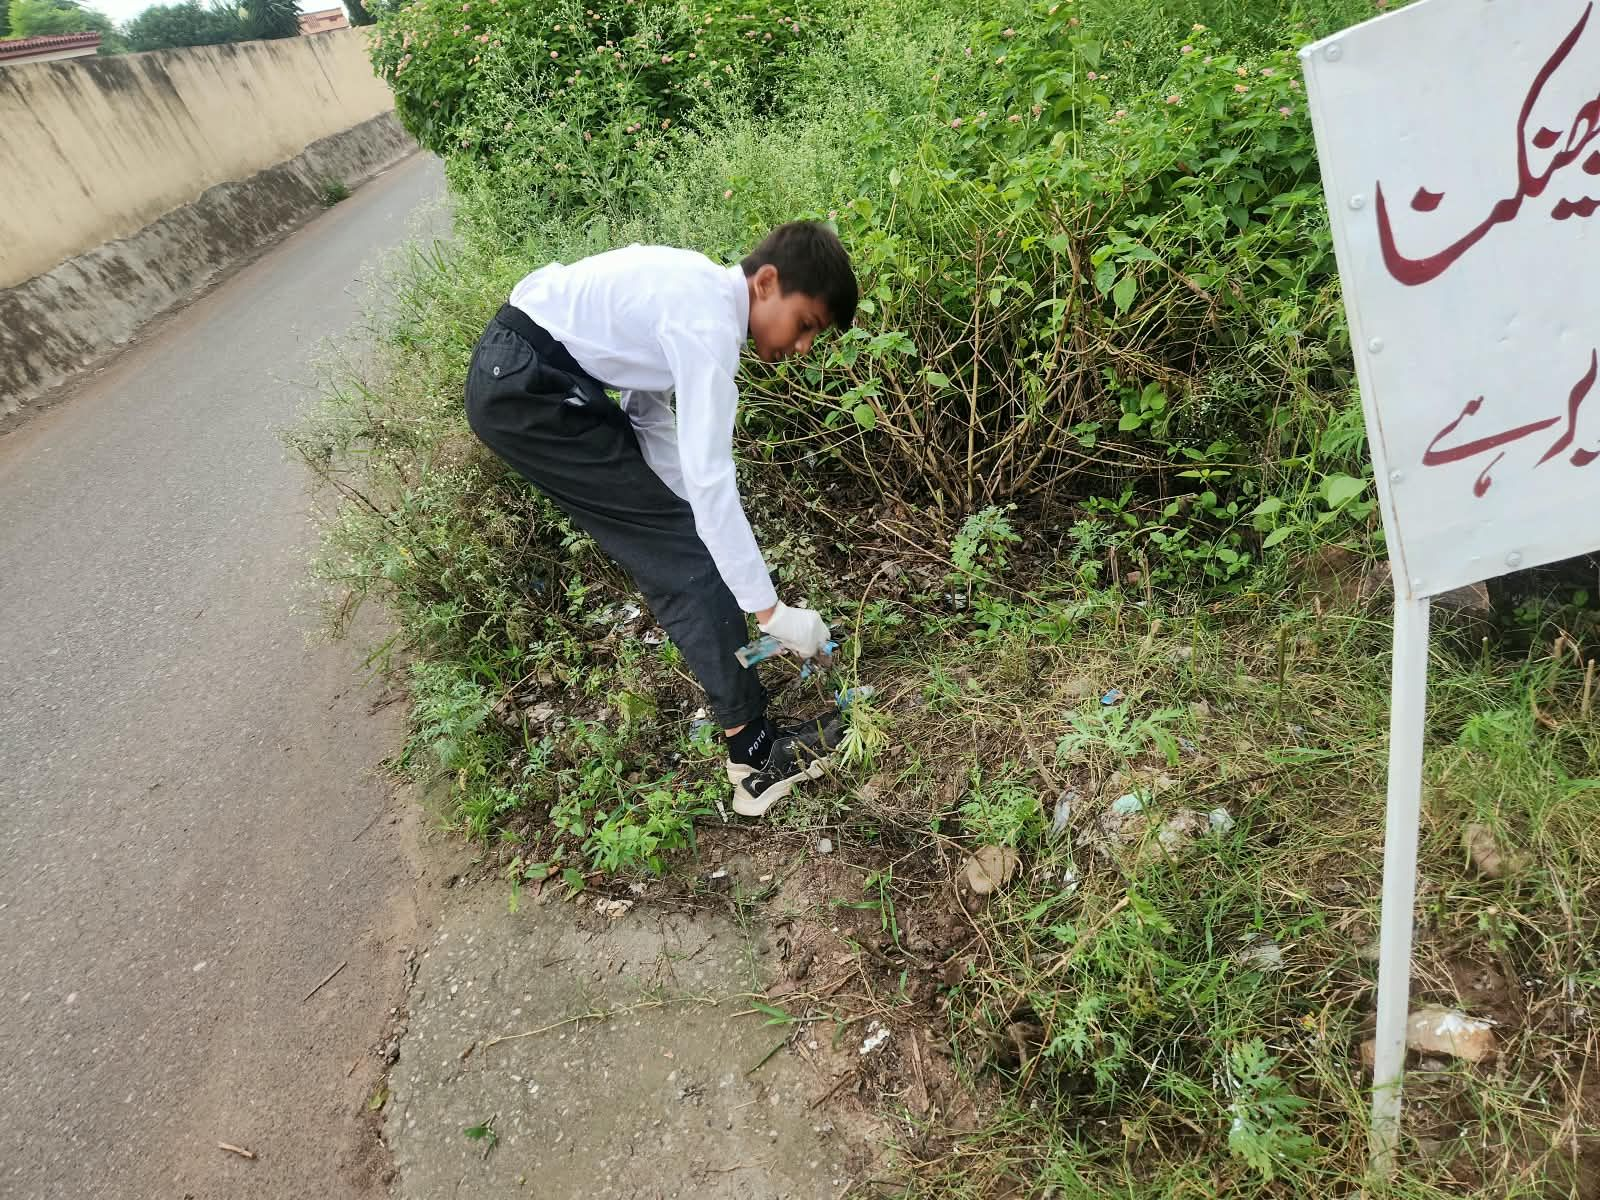
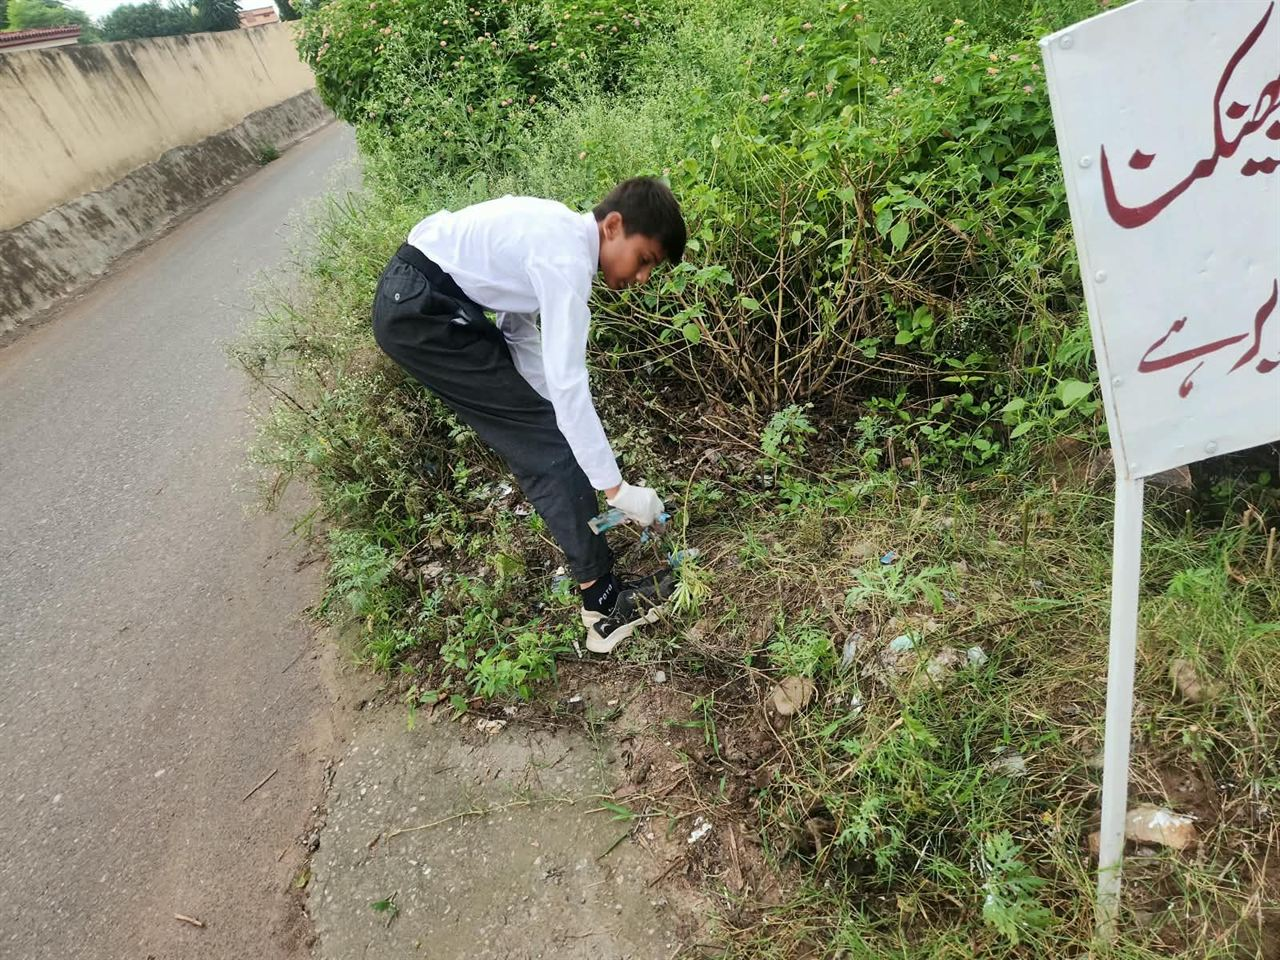
audit fixes: OG tags, contrast, fonts, reduced motion, lightbox focus, map link, strip a11y

diff --git a/index.html b/index.html
@@ -5,11 +5,19 @@
 <meta name="viewport" content="width=device-width, initial-scale=1">
 <title>Hope Valley Trust | Hope Valley School, Islamabad</title>
 <meta name="description" content="Hope Valley School, Islamabad — run by Hope Valley Trust since 2016. Quality education for children of Dhoke Malla Malot and nearby communities.">
+<meta property="og:type" content="website">
+<meta property="og:url" content="https://hopevalleytrust.com/">
+<meta property="og:title" content="Hope Valley Trust | Hope Valley School, Islamabad">
+<meta property="og:description" content="Hope Valley School, Islamabad — run by Hope Valley Trust since 2016. Quality education for children of Dhoke Malla Malot and nearby communities.">
+<meta property="og:image" content="https://hopevalleytrust.com/images/hero/hero-1.jpg">
+<meta property="og:image:width" content="1280">
+<meta property="og:image:height" content="963">
+<meta name="twitter:card" content="summary_large_image">
 <link rel="icon" href="images/logo.jpg">
 <link rel="preconnect" href="https://fonts.googleapis.com">
 <link rel="preconnect" href="https://fonts.gstatic.com" crossorigin>
-<link href="https://fonts.googleapis.com/css2?family=Dancing+Script:wght@600;700&family=Fraunces:opsz,wght@9..144,500;9..144,600&family=Nunito+Sans:wght@400;600&display=swap" rel="stylesheet">
-<link rel="stylesheet" href="style.css?v=4">
+<link href="https://fonts.googleapis.com/css2?family=Dancing+Script:wght@600;700&family=Fraunces:ital,opsz,wght@0,9..144,500;0,9..144,600;1,9..144,600&family=Nunito+Sans:wght@400;600;700&display=swap" rel="stylesheet">
+<link rel="stylesheet" href="style.css?v=5">
 </head>
 <body>
 
@@ -334,7 +342,7 @@
 
       <div class="contact-row">
         <div class="contact-cards">
-          <a class="contact-card reveal-right" href="https://www.google.com/maps/search/?api=1&amp;query=Haji+Chowk+Dhoke+Malla+Malot+Islamabad" target="_blank" rel="noopener">
+          <a class="contact-card reveal-right" data-map target="_blank" rel="noopener">
             <i><svg width="20" height="20" viewBox="0 0 24 24" fill="none" stroke="currentColor" stroke-width="2" stroke-linecap="round" stroke-linejoin="round"><path d="M20 10c0 4.993-5.539 10.193-7.399 11.799a1 1 0 0 1-1.202 0C9.539 20.193 4 14.993 4 10a8 8 0 0 1 16 0"/><circle cx="12" cy="10" r="3"/></svg></i>
             <span class="c-label">School Address</span>
             <span class="c-value">Hope Valley School, Dhoke Malla Malot, Near Haji Chowk, Islamabad</span>
@@ -394,7 +402,7 @@
       <h3>Contact</h3>
       <a href="tel:+923354988088"><svg width="16" height="16" viewBox="0 0 24 24" fill="none" stroke="currentColor" stroke-width="2" stroke-linecap="round" stroke-linejoin="round"><path d="M13.832 16.568a1 1 0 0 0 1.213-.303l.355-.465A2 2 0 0 1 17 15h3a2 2 0 0 1 2 2v3a2 2 0 0 1-2 2A18 18 0 0 1 2 4a2 2 0 0 1 2-2h3a2 2 0 0 1 2 2v3a2 2 0 0 1-.8 1.6l-.468.351a1 1 0 0 0-.292 1.233 14 14 0 0 0 6.392 6.384"/></svg>0335-4988088</a>
       <a href="mailto:hopevalley18@gmail.com"><svg width="16" height="16" viewBox="0 0 24 24" fill="none" stroke="currentColor" stroke-width="2" stroke-linecap="round" stroke-linejoin="round"><rect width="20" height="16" x="2" y="4" rx="2"/><path d="m22 7-8.97 5.7a1.94 1.94 0 0 1-2.06 0L2 7"/></svg>hopevalley18@gmail.com</a>
-      <a id="foot-address" target="_blank" rel="noopener"><svg width="16" height="16" viewBox="0 0 24 24" fill="none" stroke="currentColor" stroke-width="2" stroke-linecap="round" stroke-linejoin="round"><path d="M20 10c0 4.993-5.539 10.193-7.399 11.799a1 1 0 0 1-1.202 0C9.539 20.193 4 14.993 4 10a8 8 0 0 1 16 0"/><circle cx="12" cy="10" r="3"/></svg>Dhoke Malla Malot, Near Haji Chowk, Islamabad</a>
+      <a data-map target="_blank" rel="noopener"><svg width="16" height="16" viewBox="0 0 24 24" fill="none" stroke="currentColor" stroke-width="2" stroke-linecap="round" stroke-linejoin="round"><path d="M20 10c0 4.993-5.539 10.193-7.399 11.799a1 1 0 0 1-1.202 0C9.539 20.193 4 14.993 4 10a8 8 0 0 1 16 0"/><circle cx="12" cy="10" r="3"/></svg>Dhoke Malla Malot, Near Haji Chowk, Islamabad</a>
       <div class="foot-social">
         <a href="https://www.facebook.com/share/1ciJnt5rgU/" target="_blank" rel="noopener" aria-label="Facebook"><svg width="20" height="20" viewBox="0 0 24 24" fill="currentColor"><path d="M9.101 23.691v-7.98H6.627v-3.667h2.474v-1.58c0-4.085 1.848-5.978 5.858-5.978.401 0 .955.042 1.468.103a8.68 8.68 0 0 1 1.141.195v3.325a8.623 8.623 0 0 0-.653-.036 26.805 26.805 0 0 0-.733-.009c-.707 0-1.259.096-1.675.309a1.686 1.686 0 0 0-.679.622c-.258.42-.374.995-.374 1.752v1.297h3.919l-.386 2.103-.287 1.564h-3.246v8.245C19.396 23.238 24 18.179 24 12.044c0-6.627-5.373-12-12-12s-12 5.373-12 12c0 5.628 3.874 10.35 9.101 11.647Z"/></svg></a>
         <a href="https://wa.me/923354988088?text=Assalam%20o%20Alaikum%2C%20I%27d%20like%20to%20know%20more%20about%20Hope%20Valley%20School." target="_blank" rel="noopener" aria-label="WhatsApp"><svg width="20" height="20" viewBox="0 0 24 24" fill="currentColor"><path d="M17.472 14.382c-.297-.149-1.758-.867-2.03-.967-.273-.099-.471-.148-.67.15-.197.297-.767.966-.94 1.164-.173.199-.347.223-.644.075-.297-.15-1.255-.463-2.39-1.475-.883-.788-1.48-1.761-1.653-2.059-.173-.297-.018-.458.13-.606.134-.133.298-.347.446-.52.149-.174.198-.298.298-.497.099-.198.05-.371-.025-.52-.075-.149-.669-1.612-.916-2.207-.242-.579-.487-.5-.669-.51-.173-.008-.371-.01-.57-.01-.198 0-.52.074-.792.372-.272.297-1.04 1.016-1.04 2.479 0 1.462 1.065 2.875 1.213 3.074.149.198 2.096 3.2 5.077 4.487.709.306 1.262.489 1.694.625.712.227 1.36.195 1.871.118.571-.085 1.758-.719 2.006-1.413.248-.694.248-1.289.173-1.413-.074-.124-.272-.198-.57-.347m-5.421 7.403h-.004a9.87 9.87 0 0 1-5.031-1.378l-.361-.214-3.741.982.998-3.648-.235-.374a9.86 9.86 0 0 1-1.51-5.26c.001-5.45 4.436-9.884 9.888-9.884 2.64 0 5.122 1.03 6.988 2.898a9.825 9.825 0 0 1 2.893 6.994c-.003 5.45-4.437 9.884-9.885 9.884m8.413-18.297A11.815 11.815 0 0 0 12.05 0C5.495 0 .16 5.335.157 11.892c0 2.096.547 4.142 1.588 5.945L.057 24l6.305-1.654a11.882 11.882 0 0 0 5.683 1.448h.005c6.554 0 11.89-5.335 11.893-11.893A11.821 11.821 0 0 0 20.465 3.49"/></svg></a>
@@ -413,16 +421,16 @@
   <span>Chat with the Principal</span>
 </a>
 
-<div class="lightbox" id="lightbox" hidden>
+<div class="lightbox" id="lightbox" role="dialog" aria-modal="true" aria-label="Photo viewer" hidden>
   <button class="lb-btn lb-close" type="button" aria-label="Close"><svg width="24" height="24" viewBox="0 0 24 24" fill="none" stroke="currentColor" stroke-width="2" stroke-linecap="round"><path d="M18 6 6 18"/><path d="m6 6 12 12"/></svg></button>
   <button class="lb-btn lb-prev" type="button" aria-label="Previous"><svg width="24" height="24" viewBox="0 0 24 24" fill="none" stroke="currentColor" stroke-width="2" stroke-linecap="round" stroke-linejoin="round"><path d="m15 18-6-6 6-6"/></svg></button>
   <figure class="lb-body">
-    <img src="" alt="">
+    <img alt="">
     <figcaption class="lb-cap"></figcaption>
   </figure>
   <button class="lb-btn lb-next" type="button" aria-label="Next"><svg width="24" height="24" viewBox="0 0 24 24" fill="none" stroke="currentColor" stroke-width="2" stroke-linecap="round" stroke-linejoin="round"><path d="m9 18 6-6-6-6"/></svg></button>
 </div>
 
-<script src="script.js?v=2"></script>
+<script src="script.js?v=3"></script>
 </body>
 </html>

diff --git a/script.js b/script.js
@@ -1,5 +1,5 @@
 // Map location — swap this one query to move the pin; the embed and the
-// footer address link both derive from it.
+// address links (contact card + footer) all derive from it.
 const MAP_QUERY = "Haji Chowk Bahria Enclave Islamabad";
 const MAP_SRC = `https://www.google.com/maps?q=${encodeURIComponent(MAP_QUERY)}&z=15&output=embed`;
 const MAP_LINK = `https://www.google.com/maps/search/?api=1&query=${encodeURIComponent(MAP_QUERY)}`;
@@ -34,6 +34,7 @@ const toggle = document.getElementById("nav-toggle");
 const tabs = document.getElementById("nav-tabs");
 const socials = document.querySelector(".socials");
 const wide = matchMedia("(min-width:900px)");
+const calm = matchMedia("(prefers-reduced-motion:reduce)").matches;
 
 const place = () => (wide.matches ? document.getElementById("nav-top") : tabs).append(socials);
 wide.addEventListener("change", place);
@@ -73,7 +74,7 @@ const show = n => {
   slides.forEach((img, k) => img.classList.toggle("is-active", k === at));
   dots.forEach((dot, k) => dot.classList.toggle("is-active", k === at));
 };
-const play = () => (timer = setInterval(() => show(at + 1), 6000));
+const play = () => calm || (timer = setInterval(() => show(at + 1), 6000));
 const stop = () => clearInterval(timer);
 
 hero.addEventListener("mouseenter", stop);
@@ -113,21 +114,24 @@ const tile = (p, i) =>
 
 rows.innerHTML = speeds.map((t, r) => {
   const strip = gallery.map(tile).filter((_, i) => i % 3 === r).join("");
-  return `<div class="grow"><div class="gtrack" style="--t:${t}">${strip}${strip}</div></div>`;
+  const copy = strip.replaceAll("<button", '<button tabindex="-1" aria-hidden="true"');
+  return `<div class="grow"><div class="gtrack" style="--t:${t}">${strip}${copy}</div></div>`;
 }).join("");
 
 const lb = document.getElementById("lightbox");
 const lbImg = lb.querySelector("img");
 const lbCap = lb.querySelector(".lb-cap");
-let shot = 0;
+let shot = 0, opener;
 
 const openShot = i => {
   shot = (i + gallery.length) % gallery.length;
   lbImg.src = "images/gallery/" + gallery[shot].file;
   lbImg.alt = lbCap.textContent = gallery[shot].title;
-  lb.hidden = false;
+  if (lb.hidden) { opener = document.activeElement; lb.hidden = false; lb.querySelector(".lb-close").focus(); }
   lbImg.animate([{ opacity: 0 }, { opacity: 1 }], 250);
 };
+
+const closeLb = () => { lb.hidden = true; opener?.focus(); };
 
 rows.addEventListener("click", e => {
   const btn = e.target.closest(".gtile");
@@ -139,12 +143,12 @@ document.getElementById("gallery-more").addEventListener("click", () => openShot
 lb.addEventListener("click", e => {
   if (e.target.closest(".lb-prev")) openShot(shot - 1);
   else if (e.target.closest(".lb-next")) openShot(shot + 1);
-  else if (!e.target.closest(".lb-body")) lb.hidden = true;
+  else if (!e.target.closest(".lb-body")) closeLb();
 });
 
 addEventListener("keydown", e => {
   if (lb.hidden) return;
-  if (e.key === "Escape") lb.hidden = true;
+  if (e.key === "Escape") closeLb();
   if (e.key === "ArrowLeft") openShot(shot - 1);
   if (e.key === "ArrowRight") openShot(shot + 1);
 });
@@ -159,7 +163,6 @@ lb.addEventListener("touchend", e => {
 /* orbit showcase */
 const ring = document.getElementById("orbit-ring");
 const picks = gallery.slice(0, 8);
-const calm = matchMedia("(prefers-reduced-motion:reduce)").matches;
 
 ring.innerHTML = picks.map((p, i) =>
   `<button class="orb" type="button" data-i="${i}" style="--a:${(i / picks.length) * 360}deg" aria-label="${p.title}">
@@ -192,7 +195,7 @@ showOrb(0);
 if (!calm) setInterval(() => showOrb(orb + 1), 6000);
 
 document.getElementById("contact-map").src = MAP_SRC;
-document.getElementById("foot-address").href = MAP_LINK;
+document.querySelectorAll("[data-map]").forEach(a => (a.href = MAP_LINK));
 
 const toast = document.getElementById("toast");
 new IntersectionObserver(([e], obs) => {

diff --git a/style.css b/style.css
@@ -5,7 +5,7 @@
   --sage-ink:#6F8A6B;
   --bg:#FAF6F2;
   --text:#2A1F22;
-  --muted:#8A6B74;
+  --muted:#765862;
   --glass-tint:#EDE6F3;
   --bright:#7E1F3D;
   --rose:#9B2C4E;
@@ -294,7 +294,7 @@ main section{min-height:70vh;scroll-margin-top:var(--nav-h)}
 .gtile{position:relative;flex:none;overflow:hidden;width:200px;height:150px;padding:0;border:0;border-radius:14px;background:#2A1F22;font:inherit;cursor:pointer}
 .gtile::before{content:"";position:absolute;inset:0;background-image:var(--src);background-position:center;background-size:cover;filter:blur(12px) brightness(.62);transform:scale(1.18)}
 .gtile img{display:block;position:relative;z-index:1;width:100%;height:100%;object-fit:contain;transition:scale .5s ease}
-.gtile span{position:absolute;z-index:3;inset:auto 0 0;padding:1.1rem .6rem .45rem;font-family:var(--body);font-weight:700;font-size:.72rem;line-height:1.3;text-align:left;color:var(--bg);background:linear-gradient(0deg,rgba(108,36,58,.85),transparent);text-wrap:balance}
+.gtile span{position:absolute;z-index:3;inset:auto 0 0;padding:1.1rem .6rem .45rem;font-family:var(--body);font-weight:700;font-size:.72rem;line-height:1.3;text-align:left;color:var(--bg);background:linear-gradient(0deg,rgba(108,36,58,.9),rgba(108,36,58,.72) calc(100% - 1.1rem),transparent);text-wrap:balance}
 .gtile:hover img,.gtile:focus-visible img{scale:1.06}
 .gallery-more{--ov:rgba(108,36,58,.78);position:relative;z-index:1;overflow:hidden;display:inline-flex;align-items:center;justify-content:center;gap:.6rem;width:min(340px,100%);height:56px;align-self:center;padding:0;border:0;border-radius:999px;background:none;color:var(--bg);font:inherit;font-weight:600;cursor:pointer;box-shadow:0 10px 26px rgba(108,36,58,.3);transition:translate .4s ease,box-shadow .4s ease}
 .gallery-more::before,.btn::before,.toast a::before{content:"";position:absolute;inset:0;z-index:-2;background:url(images/gallery/convocation-2023-1.jpg) left center/34% 100% no-repeat,url(images/gallery/talent-hunt-week.jpg) center/34% 100% no-repeat,url(images/gallery/zoo-trip.jpg) right center/34% 100% no-repeat;filter:blur(3px);transform:scale(1.1)}
